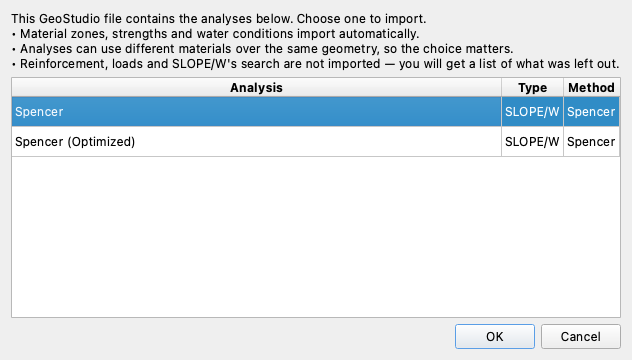
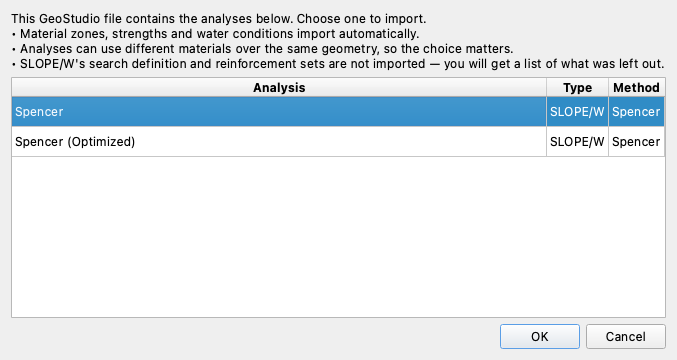
docs(tutorials): W-2 — the review findings applied
The blocker was the GeoStudio picker's caption, fixed in 03b508fd; the figure is
re-captured so it shows the corrected line, and the page keeps its sentence —
loads, the tension crack and reinforcement do import.

Page: Studio's File menu carries four importers, and the intro now says so and
names RS2 as the fourth. The Material column defaults to the layer name, uppercase
only because export_dxf writes it that way. The DXF note is quoted whole
("distributed-load magnitudes and reinforcement strengths imported as 0"), as is
the Slide2 note, whose actionable second half was cut. The materials table follows
the house layout — every intervening column present, units out of the header — and
"what does not come across" names reinforcement sets, inclined tension cracks and
the vertical seismic coefficient, and no longer claims every tension crack
converts. Nits: the water-table bullet carries numbers again, "Number of slices"
is the field's own label, the Slide2 picker opens on Master Scenario so the reader
selects, one 2:1 face rather than side slopes, the layer table in the wizard's
order, two flourishes cut, and every figure declared at its own width.

Captures: the Part 1 main-window shot is now driven through the import rather than
by opening the shipped workbook, so its status bar reads "Loaded untitled" — the
state the caption names. A bare run no longer sweeps: with no shot named the
script prints its usage and the shot list and exits, --all sweeps, and the closing
[…]

diff --git a/tools/capture_tutorial_screenshots.py b/tools/capture_tutorial_screenshots.py
@@ -15,10 +15,17 @@ material in it, the Run LEM dialog before the circles exist and after.
 Full main-window captures are the owner's and are not attempted here; the tutorial
 carries a generated placeholder for each (see ``tools/make_tutorial_figures.py``).
 
-Run:  python3 tools/capture_tutorial_screenshots.py           # every shot
-      python3 tools/capture_tutorial_screenshots.py lem01     # by name
+Run:  python3 tools/capture_tutorial_screenshots.py lem01     # by name (substring)
+      python3 tools/capture_tutorial_screenshots.py --all     # every shot
       python3 tools/capture_tutorial_screenshots.py w1        # a recorded session
       python3 tools/capture_tutorial_screenshots.py w1 --dry-run   # no API call
+
+**A bare run writes nothing.** Every shot is regenerated from live Qt, so a sweep
+rewrites every committed PNG whether or not it changed -- which is a diff nobody
+asked for on top of whichever figure was meant. With no shot name on the command
+line the script prints its usage and the shot list and exits; ``--all`` is the
+explicit way to sweep. ``--dry-run`` gates the W-1 provider calls only, so it is
+no protection here.
 
 The W-1 entries are not dialog captures but recorded assistant conversations, each
 of which makes a real (billed) provider call; they run only when named, never in an
@@ -3489,9 +3496,15 @@ def _find_vendor(name):
     return None
 
 
+#: Shots that ran but wrote nothing, so the closing count can report writes rather
+#: than attempts.
+SKIPPED = []
+
+
 def _skip(shot, path, source):
     print("skipped %s — %s not in the vendor archive (%s)"
           % (shot, os.path.basename(path), source))
+    SKIPPED.append(shot)
     return None
 
 
@@ -3567,9 +3580,26 @@ def w02_dxf_wizard():
 
 
 def w02_dxf_window():
-    """The imported section on the canvas, with the properties filled in — the
-    state Part 1 ends in, on the workbook the page ships."""
-    return _main_window(W02_XLSX, "w02_dxf_window.png")
+    """The imported section on the canvas, with the properties filled in.
+
+    Driven through the import rather than by opening the shipped workbook: the two
+    look almost alike, but the status bar does not — an imported project is
+    untitled and unsaved, which is the state Part 1 describes, and a shot that read
+    "Loaded w02_section_imported.xlsx" would photograph the step after the one its
+    caption names. The mapping and the property values come from the page's own
+    builder, so the figure cannot drift from the workbook the page ships.
+    """
+    from xslope.cad import read_dxf_layers
+    from tools.build_w02_import_dxf import default_mapping, fill_properties
+
+    layers, _warnings = read_dxf_layers(W02_DXF)
+
+    def build(win):
+        win.doc.build_from_dxf_mapping(layers, default_mapping(layers))
+        fill_properties(win.doc.slope_data)
+        win._populate_inputs_tree()
+
+    return _main_window(build, "w02_dxf_window.png")
 
 
 def _gsz_import(analysis_name="Spencer"):
@@ -3719,7 +3749,16 @@ from tools.assistant_sessions import SESSIONS  # noqa: E402
 def main(argv=None):
     argv = list(sys.argv[1:] if argv is None else argv)
     dry_run = "--dry-run" in argv
+    sweep = "--all" in argv
     argv = [a for a in argv if not a.startswith("-")]
+    # A bare run used to sweep, which rewrote every committed PNG from live Qt and
+    # buried the one figure being worked on. Naming nothing now asks for the list.
+    if not argv and not sweep:
+        print(__doc__.split("Run:")[0].strip())
+        print("\nName a shot (substring match), or --all to sweep.\n")
+        print("shots:    %s" % ", ".join(sorted(SHOTS)))
+        print("sessions: %s" % ", ".join(sorted(SESSIONS)))
+        return 1
     os.makedirs(OUT_DIR, exist_ok=True)
     names = [n for n in SHOTS if not argv or any(a in n for a in argv)]
     # Recorded assistant sessions cost real money against the key in the keychain,
@@ -3735,7 +3774,10 @@ def main(argv=None):
             SHOTS[name]()
         for name in sessions:
             SESSIONS[name](dry_run=dry_run)
-    print("\nwrote %d screenshot(s) to docs/tutorials/images/" % len(names))
+    print("\nwrote %d screenshot(s) to docs/tutorials/images/"
+          % (len(names) - len(SKIPPED)))
+    if SKIPPED:
+        print("skipped %d (vendor file not in the archive)" % len(SKIPPED))
     if sessions:
         print("recorded %d assistant session(s)%s"
               % (len(sessions), " (dry run)" if dry_run else ""))

diff --git a/test/table_paste_check.py b/test/table_paste_check.py
@@ -827,6 +827,16 @@ def test_lem04_materials():
                           os.path.join(_MODELS, "xslope_method_slices_problem.xlsx"))
 
 
+def test_w02_materials():
+    """W-2's three soils — the only taught materials table whose model came in
+    through an importer rather than being typed. A DXF carries no properties at
+    all, so this block is the whole of what the reader supplies, and the page is
+    the only place the three rows exist."""
+    return _materials_leg("W-2 materials", "w02_import.md",
+                          os.path.join(_REPO, "docs", "tutorials", "files",
+                                       "w02_section_imported.xlsx"))
+
+
 def test_lem05_materials():
     return _materials_leg("LEM-5 materials", "lem05_weak_layer_noncircular.md",
                           os.path.join(_MODELS, "xslope_noncircular.xlsx"))
@@ -1288,6 +1298,7 @@ CHECKS = [
     ("LEM-3 materials", test_lem03_materials),
     ("LEM-4 materials", test_lem04_materials),
     ("LEM-5 materials", test_lem05_materials),
+    ("W-2 materials", test_w02_materials),
     ("LEM-6 materials", test_lem06_materials),
     ("LEM-7 power -> Mohr-Coulomb", test_lem07_power_to_mohr_coulomb),
     ("LEM-7 c/p -> constant", test_lem07_profile_to_constant),

diff --git a/docs/tutorials/w02_import.md b/docs/tutorials/w02_import.md
@@ -1,18 +1,19 @@
 ---
 title: "Tutorial W-2 — Bringing in Models from CAD and Other Programs"
-description: "The three LEM importers walked end to end in XSLOPE Studio — a layered DXF section, a GeoStudio SLOPE/W model that brings its solved circle with it, and a Slide2 scenario that arrives without a failure surface."
+description: "The three limit-equilibrium importers walked end to end in XSLOPE Studio — a layered DXF section, a GeoStudio SLOPE/W model that brings its solved circle with it, and a Slide2 scenario that arrives without a failure surface."
 ---
 
 # Tutorial W-2 — Bringing in Models from CAD and Other Programs
 
-A section that already exists somewhere else does not have to be redrawn. XSLOPE
-Studio reads three outside formats: a **DXF** drawing from any CAD program, a
-**GeoStudio SLOPE/W** project (`.gsz`), and a **Rocscience Slide2** model
-(`.sli`, `.slim` or `.slmd`). A DXF carries lines and nothing about what they
-mean, so its import asks; the two program files already know their own regions,
-materials and water, so theirs ask only which analysis or scenario to take. All
-three end with a new unsaved project on the canvas and a list of what did not come
-across.
+A section that already exists somewhere else does not have to be redrawn. Studio's
+File menu carries four importers, and this tutorial walks the three that bring in
+a limit-equilibrium model: a **DXF** drawing from any CAD program, a **GeoStudio
+SLOPE/W** project (`.gsz`), and a **Rocscience Slide2** model (`.sli`, `.slim` or
+`.slmd`) — the fourth, **Import RS2 (.fez)…**, reads a finite element model and is
+out of scope here. A DXF carries lines and nothing about what they mean, so its
+import asks; the two program files already know their own regions, materials and
+water, so theirs ask only which analysis or scenario to take. All three end with a
+new unsaved project on the canvas and a list of what did not come across.
 
 <div class="tut-glance" markdown>
 <div class="tgt-row">
@@ -45,8 +46,8 @@ written up under [DXF Import/Export](../usage/dxf.md) and
 ## Part 1 — A CAD drawing
 
 [w02_section.dxf](files/w02_section.dxf) holds a highway embankment in feet: 30 ft
-of fill on 2:1 side slopes over 15 ft of silty clay on dense sand, a water table a
-few feet down, and a 600 psf crest surcharge. A DXF says where the lines are and
+of fill on a 2:1 face over 15 ft of silty clay on dense sand, a water table a few
+feet down, and a 600 psf crest surcharge. A DXF says where the lines are and
 which layer each sits on, and nothing about unit weights, strengths or load
 pressures.
 
@@ -57,9 +58,9 @@ Six layers carry the section:
 | `EMBANKMENT` | the fill zone, a closed outline |
 | `SILTY_CLAY` | the upper foundation zone |
 | `DENSE_SAND` | the lower foundation zone |
-| `PIEZO` | the water table, an open polyline |
-| `DLOADS` | the strip the surcharge acts over |
 | `SEARCH_CIRCLES` | two starting circles, each an arc plus a center point |
+| `DLOADS` | the strip the surcharge acts over |
+| `PIEZO` | the water table, an open polyline |
 
 Those are XSLOPE's own reserved names, which the wizard recognizes; a drawing
 from outside CAD gets the same table, and every row can be overridden.
@@ -67,7 +68,7 @@ from outside CAD gets the same table, and every row can be overridden.
 With the drawing downloaded, we start the import from the File menu. Click
 **File → Import DXF…** and choose `w02_section.dxf`.
 
-![The DXF import wizard on w02_section.dxf: six layers, each with its contents, its suggested target and its material name](images/w02_dxf_wizard.png){width=690}
+![The DXF import wizard on w02_section.dxf: six layers, each with its contents, its suggested target and its material name](images/w02_dxf_wizard.png){width=688}
 
 **Layer** and **Contents** come from the file; **Import as** carries the choice,
 and **Material** applies to the two targets that use it:
@@ -83,31 +84,35 @@ and **Material** applies to the two targets that use it:
 | Failure circles | starting circles for the search |
 
 Two layers sharing a material name merge. Every row here is already right, so the
-only edit is cosmetic: the **Material** column defaults to the uppercase layer
-name. Type `embankment`, `silty clay` and `dense sand` into the three material
-rows, then click **OK**.
+only edit is cosmetic: the **Material** column defaults to the layer name, and
+these are uppercase because that is how `export_dxf` writes them. Type
+`embankment`, `silty clay` and `dense sand` into the three material rows, then
+click **OK**.
 
 ![Studio after the DXF import, with the properties filled in: three material zones, the piezometric line, the surcharge and two starting circles](images/w02_dxf_window.png){width=1000}
 
 The Inputs tree counts what arrived — 3 materials, 3 polygons, 2 circles, the
-piezometric line's 3 points and 1 distributed load — and one note comes back: load
-magnitudes import as zero. So two things still have to be typed. We open the
-materials editor and fill in the three rows:
+piezometric line's 3 points and 1 distributed load — and one note comes back:
+*distributed-load magnitudes and reinforcement strengths imported as 0 — set them
+in the editors*. There is no reinforcement here, so two things still have to be
+typed. We open the materials editor and fill in the three rows. Unit weights are
+pcf, cohesions psf and φ′ degrees; the columns none of the three soils use stay
+blank:
 
-| name | γ (pcf) | option | c (psf) | φ (deg) | u |
-| --- | :---: | --- | :---: | :---: | --- |
-| `embankment` | 125 | `mc` | 250 | 28 | `piezo` |
-| `silty clay` | 118 | `mc` | 700 | 0 | `piezo` |
-| `dense sand` | 132 | `mc` | 0 | 36 | `piezo` |
+| name | γ | γsat | option | c | φ | c/p | r-elev | d | psi | t_cut | E | nu | u |
+| --- | :---: | :---: | --- | :---: | :---: | :---: | :---: | :---: | :---: | :---: | :---: | :---: | --- |
+| `embankment` | 125 |  | `mc` | 250 | 28 |  |  |  |  |  |  |  | `piezo` |
+| `silty clay` | 118 |  | `mc` | 700 | 0 |  |  |  |  |  |  |  | `piezo` |
+| `dense sand` | 132 |  | `mc` | 0 | 36 |  |  |  |  |  |  |  | `piezo` |
 
 Then we open the distributed loads editor and set the surcharge to 600 psf at both
 of its points. That model ships as
 [w02_section_imported.xlsx](files/w02_section_imported.xlsx).
 
 With the properties in, the model is complete. Click **Run LEM**, choose
-**Spencer** and **Auto search**, leave the slice count at 40, and click **OK**.
-The search returns **FS = 1.185** on a circle tangent to the top of the dense sand
-— through the foundation clay rather than the fill.
+**Spencer** and **Auto search**, leave **Number of slices** at 40, and click
+**OK**. The search returns **FS = 1.185** on a circle tangent to the top of the
+dense sand — through the foundation clay rather than the fill.
 
 <!-- test: file=files/w02_section_imported.xlsx, type=circular_search, method=spencer, num_slices=40, expected_fs=1.185, tolerance=0.005, benchmark=W-2-dxf -->
 
@@ -115,7 +120,8 @@ The search returns **FS = 1.185** on a circle tangent to the top of the dense sa
 
 - **The geometry closed** — three zones, no gap and no overlap. A ring that
   failed to close arrives as a missing zone.
-- **The water table sits below the ground surface everywhere.**
+- **The water table sits below the ground surface everywhere** — −4 ft at the left
+  edge, +2 ft under the crest, against ground at 0 and 30.
 - **The surcharge reads 600 psf, not 0.** A load left at zero changes nothing and
   looks like it worked.
 
@@ -140,15 +146,15 @@ redistributed here.
 The import runs from the same menu. Click
 **File → Import GeoStudio (SLOPE/W)…** and choose the `.gsz`.
 
-![The GeoStudio analysis picker: the file's two Spencer analyses, with their type and method](images/w02_gsz_analyses.png){width=640}
+![The GeoStudio analysis picker: the file's two Spencer analyses, with their type and method](images/w02_gsz_analyses.png){width=677}
 
 Take the first, **Spencer**, and click **OK**. (A file holding one analysis skips
 this step.)
 
-![The notes reported by the GeoStudio import: four of them, on the imported circle, the reservoir, the tension crack and the unit system](images/w02_gsz_notes.png){width=740}
+![The notes reported by the GeoStudio import: four of them, on the imported circle, the reservoir, the tension crack and the unit system](images/w02_gsz_notes.png){width=708}
 
-Four notes, each answered by the problem itself. The failure surface came from
-one of SLOPE/W's own trial circles rather than a search, and the note gives
+Four notes come back. The failure surface came from one of SLOPE/W's own trial
+circles rather than a search, and the note gives
 SLOPE/W's factor of safety on it, 1.934 by Spencer. Water stands above the ground
 surface, so XSLOPE derives the reservoir from the piezometric line — adding a load
 block by hand would count it twice. The tension crack imported at depth 5.00, the
@@ -176,14 +182,15 @@ already publishes from a hand-built input file.
 
 ### What does not come across
 
-Material zones, strengths, water conditions, surcharge and line loads, tension
-cracks and reinforcement all import. SLOPE/W's search definition does not, so a
-file saved without a solved surface arrives with no failure surface at all.
-Strength and pore-pressure options XSLOPE does not carry come in as whatever fits,
-named in the notes — and where that would make the answer wrong, as with SLOPE/W's
-`Ru` pore pressures, the note says so. A probabilistic analysis brings its
-standard deviations but not the correlations or truncated ranges applied to
-them.
+Material zones, strengths, water conditions, surcharge and line loads,
+reinforcement and a surface-defined tension crack all import. SLOPE/W's search
+definition does not, so a file saved without a solved surface arrives with no
+failure surface at all; nor do reinforcement sets, an inclined tension crack, or a
+vertical seismic coefficient. Strength and pore-pressure options XSLOPE does not
+carry come in as whatever fits, named in the notes — and where that would make the
+answer wrong, as with SLOPE/W's `Ru` pore pressures, the note says so. A
+probabilistic analysis brings its standard deviations but not the correlations or
+truncated ranges applied to them.
 
 ---
 
@@ -208,15 +215,17 @@ horizontal base.
 With the zip unpacked, we start the import. Click **File → Import Slide2…** and
 choose `Tutorial 28 Seismic.slmd`.
 
-![The Slide2 scenario picker: the master scenario and the four the tutorial builds on it](images/w02_slide2_scenarios.png){width=640}
+![The Slide2 scenario picker: the master scenario and the four the tutorial builds on it](images/w02_slide2_scenarios.png){width=633}
 
-Take **No Seismic** and click **OK**. Three notes come back: the model is metric,
-Slide2 was set to run Spencer — so we solve with Spencer too and the comparison
-stays like-for-like — and
+The picker opens on **Master Scenario**, so select **No Seismic** and click
+**OK**. Three notes come back: the model is metric, Slide2 was set to run
+Spencer — so we solve with Spencer too and the comparison stays like-for-like —
+and
 
 > no failure surface was imported — this scenario defines a SEARCH (grid, block,
 > path or metaheuristic), which has no xslope equivalent, and no specified circle
-> or surface to take one from.
+> or surface to take one from. Define circles or a non-circular surface before
+> solving (an input file with no surface will not re-load).
 
 A search definition does not translate, so a starting circle has to be added. We
 open the circles editor and add a row: **Xo** = 40, **Yo** = 45, **Option** =
@@ -227,7 +236,8 @@ toe, on a circle through it, the placement
 ![Studio after the Slide2 import, with the starting circle added: three soil layers over a horizontal base](images/w02_slide2_window.png){width=1000}
 
 The model now has everything a search needs. Click **Run LEM**, choose
-**Spencer** and **Auto search**, leave the slice count at 40, and click **OK**.
+**Spencer** and **Auto search**, leave **Number of slices** at 40, and click
+**OK**.
 The search returns **FS = 1.372** against Slide2's published 1.360, a difference
 of 0.9% that
 [problem 104 of the Slide2 verification page](../verification/rocscience.md#vp104)
@@ -255,8 +265,8 @@ This tutorial covered:
   surface: 1.939 against 1.934.
 - A Slide2 scenario arriving with no failure surface, because Slide2 stores a
   search: 1.372 against 1.360 once a circle is added.
-- The notes every import reports, which name what would otherwise make an imported
-  answer quietly wrong.
+- The notes every import reports, which name what the import could not carry and
+  what to set before solving.
 
 **Where to go next:** [DXF Import/Export](../usage/dxf.md) and
 [GeoStudio Import/Export](../usage/geostudio.md) carry the full mapping tables and

diff --git a/docs/tutorials/index.md b/docs/tutorials/index.md
@@ -97,6 +97,6 @@ writes, and how to send a whole project to somebody else.
 | # | Tutorial | What it covers | Analysis | Features | Time |
 | :---: | --- | --- | --- | --- | :---: |
 | 1 | [The AI Assistant](w01_ai_assistant.md) | Studio's built-in assistant put through eight requests on the reinforced slope of LEM-8 — setting it up with a provider, a model and a key, and what a turn costs; then building the model from nothing but its drawing, editing its face, its loads and its reinforcement, a sweep the Parametric dialog offers and a sweep it does not, material stiffnesses suggested and then run through strength reduction, a question answered out of this documentation and the verification corpus, a broken file diagnosed one input at a time, and the analysis report — with what to check after each one | Any | AI assistant, provider setup, images, model edits, parameter studies, strength reduction, documentation, analysis report | ~30 min |
-| 2 | [Bringing in Models from CAD and Other Programs](w02_import.md) | The three importers walked end to end — a layered DXF section of a highway embankment mapped layer by layer through the import wizard, with the seven targets a layer can take and the properties no CAD file can hold typed in afterward (1.185 on a surface tangent to the dense sand); a GeoStudio SLOPE/W verification dam that arrives whole, including one of SLOPE/W's own solved trial circles, so the two programs can be compared on one surface (1.939 against 1.934); and a Slide2 scenario that arrives with no failure surface at all, because Slide2 stores a search rather than a surface (1.372 against 1.360 once a starting circle is added) — with the caveat list every import reports, read against what each source model defines | Limit equilibrium | DXF import, layer mapping, material zones, piezometric line, distributed load, failure circles, GeoStudio import, analysis picker, imported trial circle, Slide2 import, scenario picker, import caveats, Spencer, circular search | ~25 min |
+| 2 | [Bringing in Models from CAD and Other Programs](w02_import.md) | The three limit-equilibrium importers of Studio's four walked end to end — a layered DXF section of a highway embankment mapped layer by layer through the import wizard, with the seven targets a layer can take and the properties no CAD file can hold typed in afterward (1.185 on a surface tangent to the dense sand); a GeoStudio SLOPE/W verification dam that arrives whole, including one of SLOPE/W's own solved trial circles, so the two programs can be compared on one surface (1.939 against 1.934); and a Slide2 scenario that arrives with no failure surface at all, because Slide2 stores a search rather than a surface (1.372 against 1.360 once a starting circle is added) — with the note list every import reports, read against what each source model defines | Limit equilibrium | DXF import, layer mapping, material zones, piezometric line, distributed load, failure circles, GeoStudio import, analysis picker, imported trial circle, Slide2 import, scenario picker, import notes, Spencer, circular search | ~25 min |
 
 </div>
